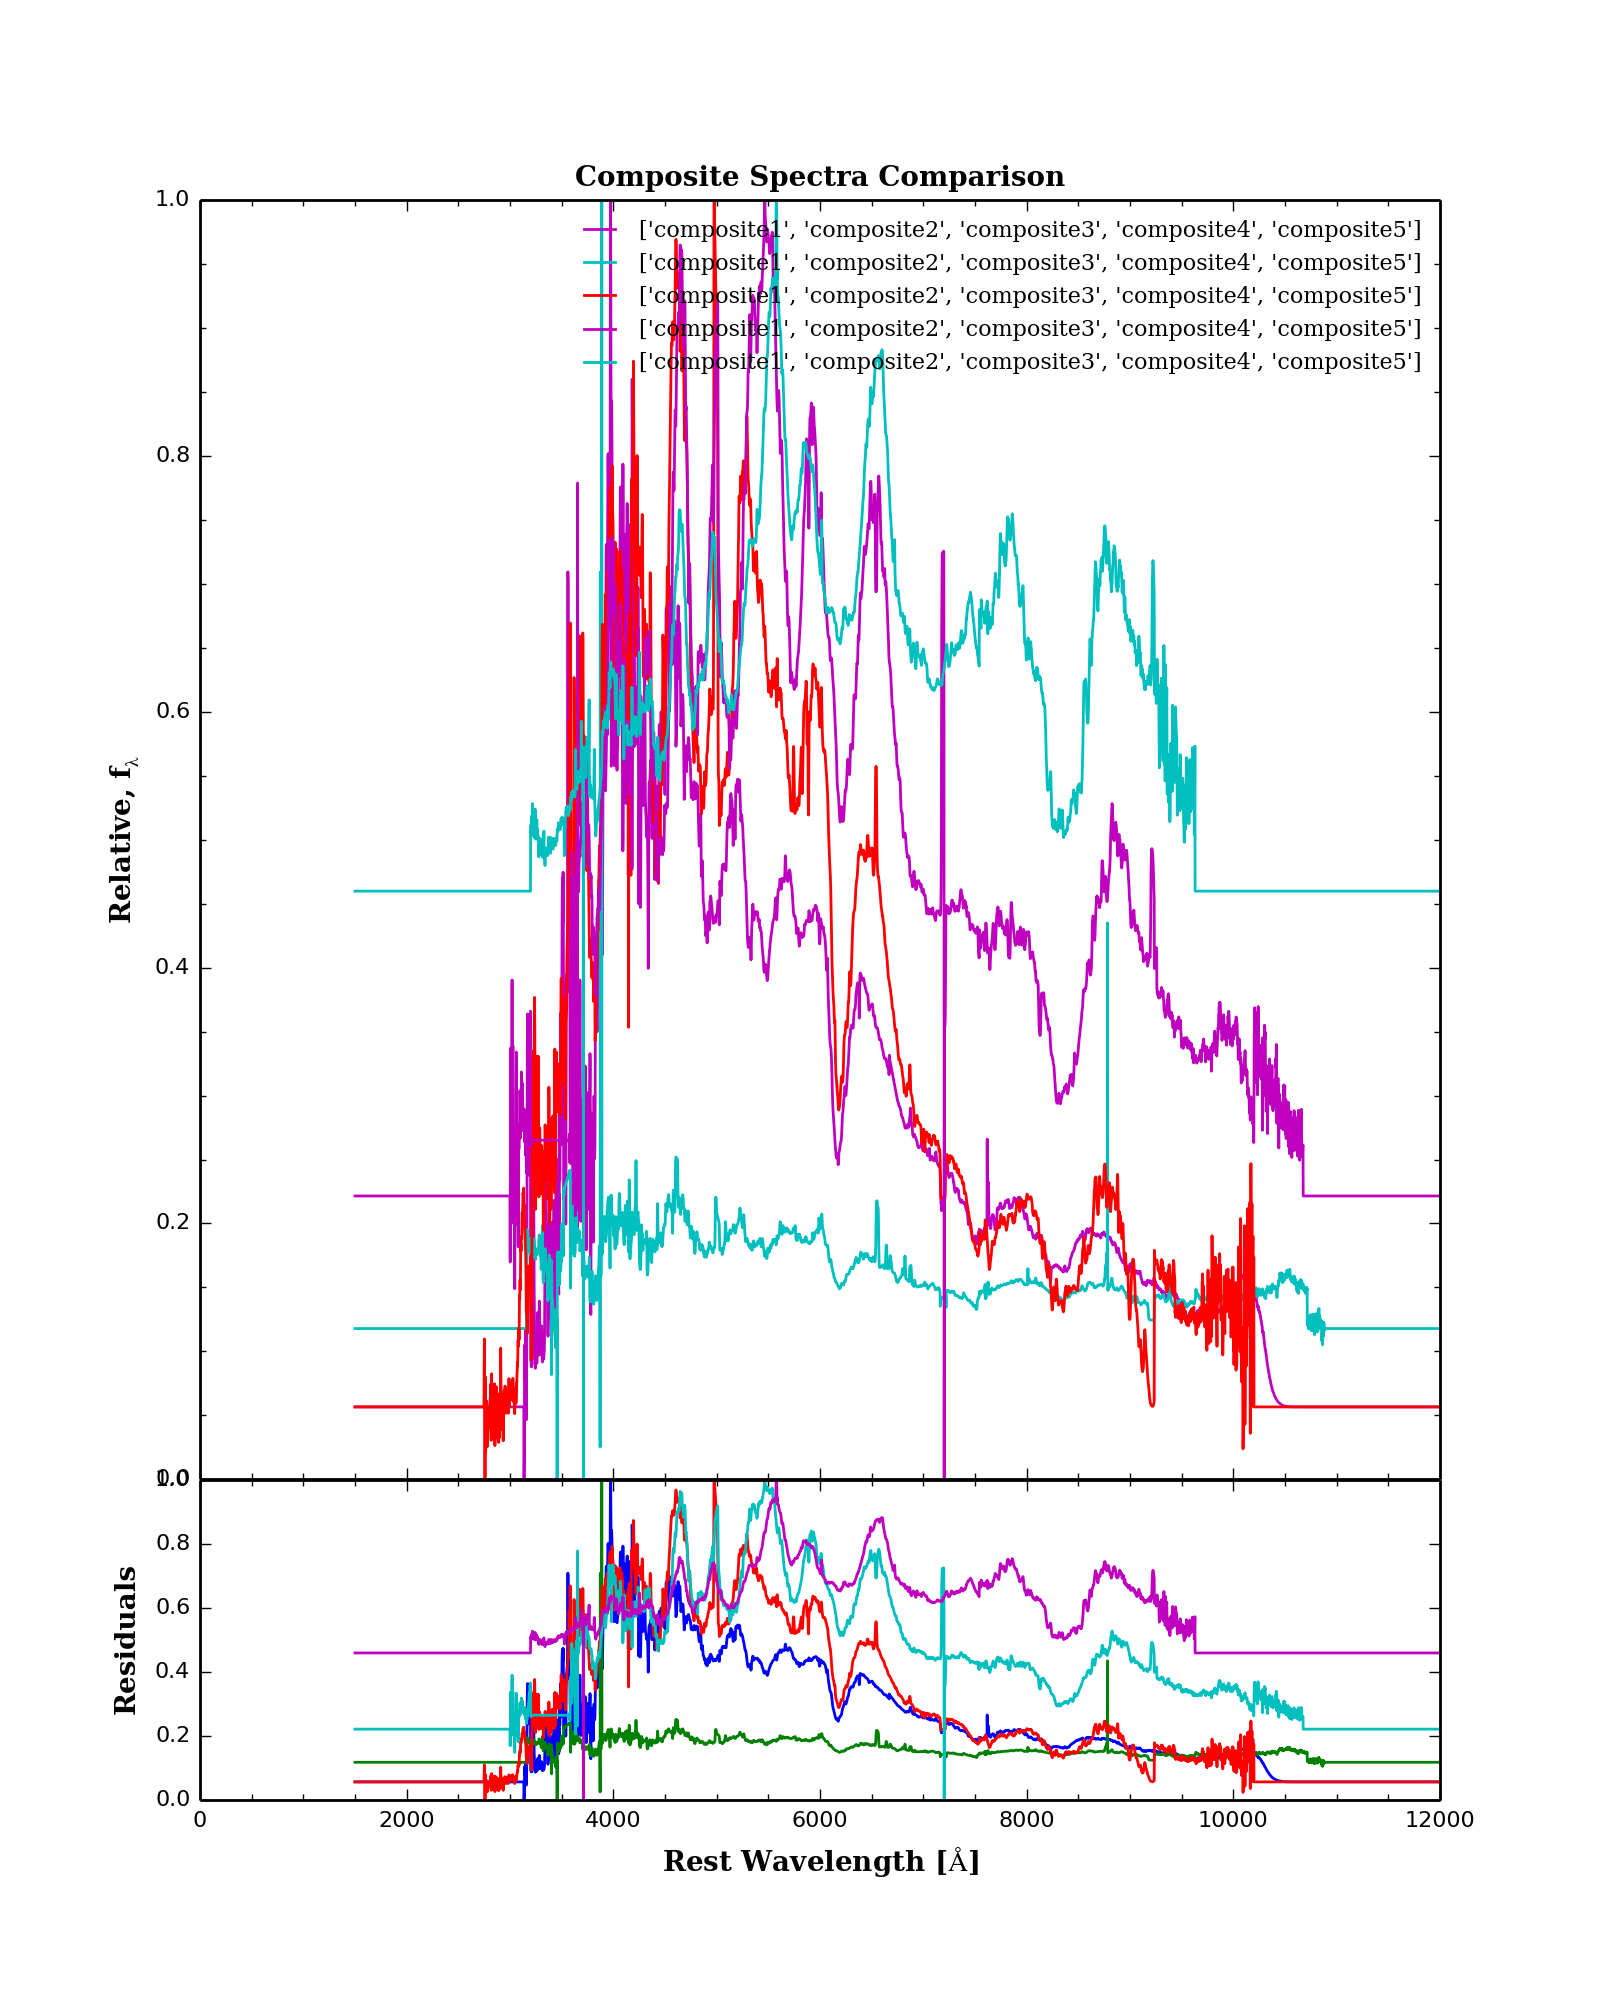
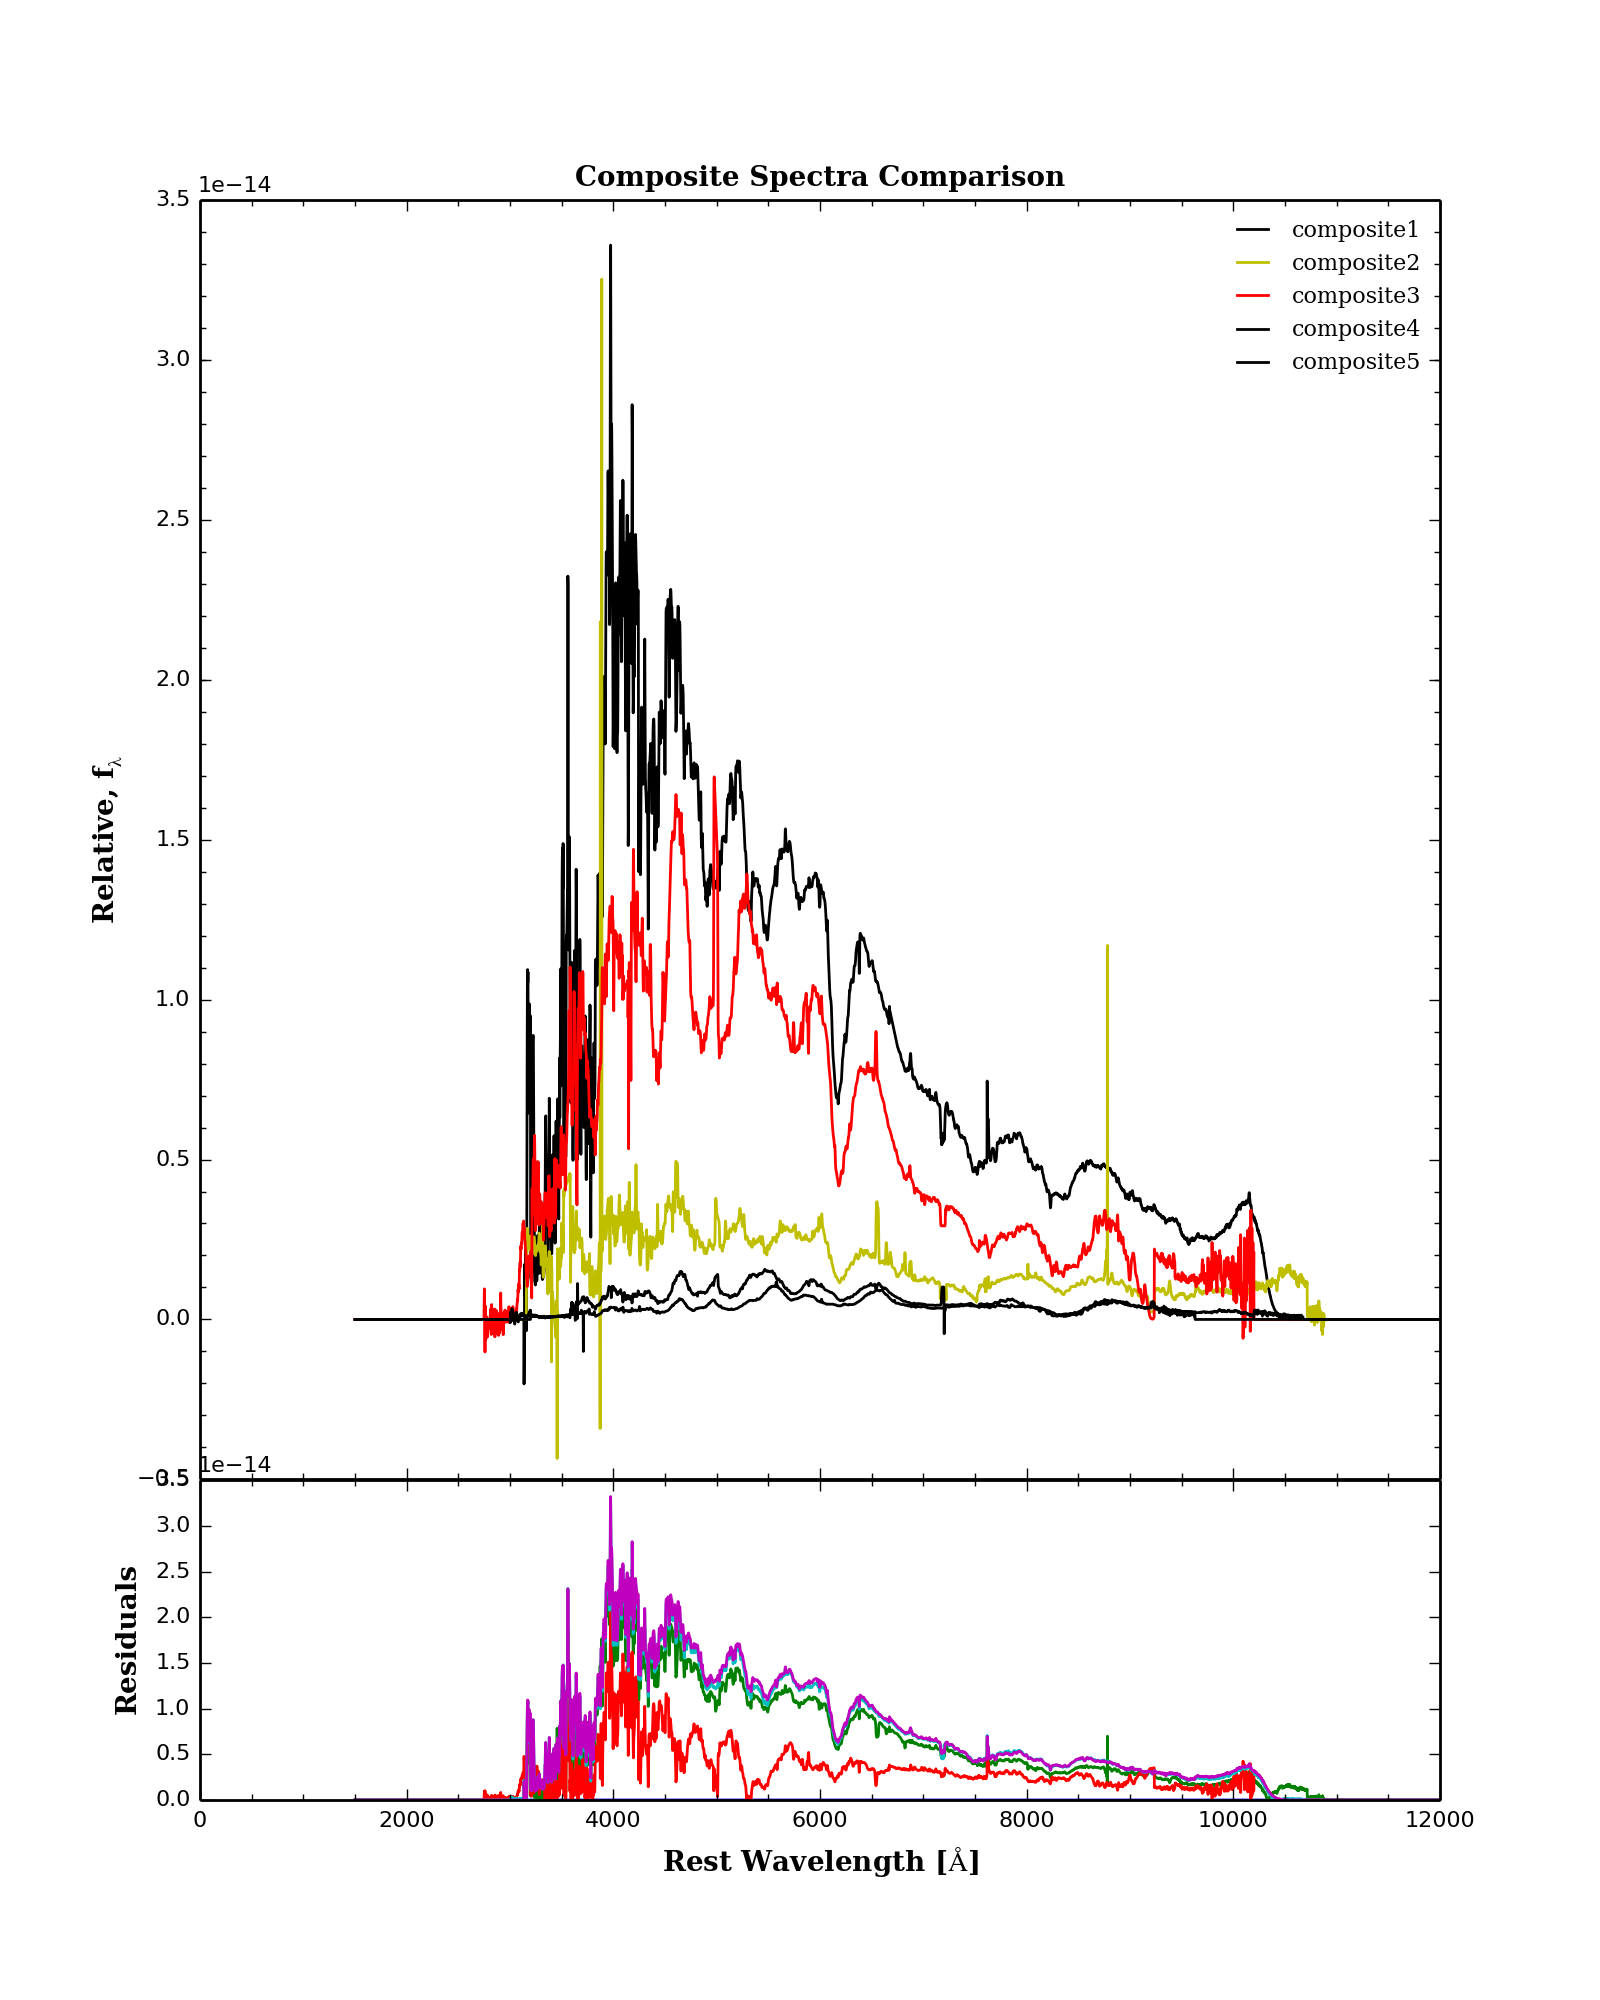
sort of fixed it?
If we take out the scaling function, everything runs through and plots
nicely. But...it's not scaled. So there's something wrong with that
method.

diff --git a/src/Plotting.py b/src/Plotting.py
@@ -133,8 +133,9 @@ def main(Show_Data , Plots , image_title , title, Names):
 # verses colums. So, I changed the file renaming and added .T
 #############################################################
     def Scaling(data):
-	#print data
+	print len(data)
         scaled = []
+	#still getting an error here, which might be causing the 'nan'
         scaled = ((data-min(data))/(max(data)-min(data)))
         return scaled 
 #############################################################
@@ -182,11 +183,11 @@ def main(Show_Data , Plots , image_title , title, Names):
         Resid = plt.subplot(gs[p], sharex = Rel_flux)
         plt.ylabel('Residuals', fontdict = font)
         for j in range(len_RS):
-            if j % 2 == 0:
-                #print RS[j+1]
+            if j % 2 == 0:		
 		#There's something wrong with the dimensionality of x and y here
-		#not sure what it is...if I print it, I can't see the entire array, it's too big.
-                plt.plot(RS[j], RS[j+1], label = "RMS of residuals", ls = '-')
+		#I added the extra [0]s because the arrays were 3 dimensional somehow, so now they're both 1-D
+		#But they're still full of 'nan' so the plot gets messed up. But it runs through.
+                plt.plot(RS[j][0], RS[j+1][0][0], label = "RMS of residuals", ls = '-')
         #plt.plot(RS[0], RS[1], label = "RMS of residuals", ls = '-')
         RSxticklabels = Resid.get_xticklabels()
         if max(stacked) == 1:
@@ -295,12 +296,17 @@ def main(Show_Data , Plots , image_title , title, Names):
 # What does this section do? I was having problems with it
 # so I've temporarily commented it out. 
 #############################################################
-    
+
+#I commented this out because the scaling was causing issues.
+#Now it runs through and the residuals actually plot which is good
+#But...it's not scaled. Is that bad? (4/13) - Sam
+    """
     for j in range(len_RF):
         if j % 2 != 0:
             RF[j] = Scaling(RF[j])
     for j in range(len_RS):
         if j % 2 != 0:
+	    print len(RS[j])
             RS[j] = Scaling(RS[j])
     for j in range(len_SB):
         if j % 2 != 0:
@@ -314,7 +320,7 @@ def main(Show_Data , Plots , image_title , title, Names):
     for j in range(len_SB):
         if j % 2 != 0:
             RD[j] = Scaling(RD[j])
-    
+    """
     """
     # Commented out for the time being because we're only given a single array
     source = (np.array(RF[1])).T

diff --git a/src/Run.py b/src/Run.py
@@ -71,8 +71,7 @@ for n in range(queries):
     plot_array.append(d["fluxes{0}".format(n+1)])
     residual_array.append(d["wavelengths{0}".format(n+1)])
     residual_list = abs(np.array([d["fluxes{0}".format(n+1)]-d["fluxes1"]]))
-    print residual_list
-    residual_array.append(np.array([d["fluxes{0}".format(n+1)]-d["fluxes1"]]))
+    residual_array.append(residual_list)
     variance_array.append(d["wavelengths{0}".format(n+1)])
     variance_array.append(d["variances{0}".format(n+1)])
     name_array.append("composite{0}".format(n+1))
@@ -96,7 +95,7 @@ Redshift        = []
 # Can name_array put an empty "  " space between each associated data name
 # yes
 #Names           = ["Carbon Positive", "","Carbon Negative",""] # the names corresponding to each composite go here
-## If you want custom names ^^^, uncomment and use line 82.
+## If you want custom names ^^^, uncomment and use line 83, for consistency.
 ##Otherwise it'll default to just labeling composites in order.
 Names           = name_array
 Show_Data       = [Relative_Flux, Residuals, Spectra_Bin, Age , Delta , Redshift]
